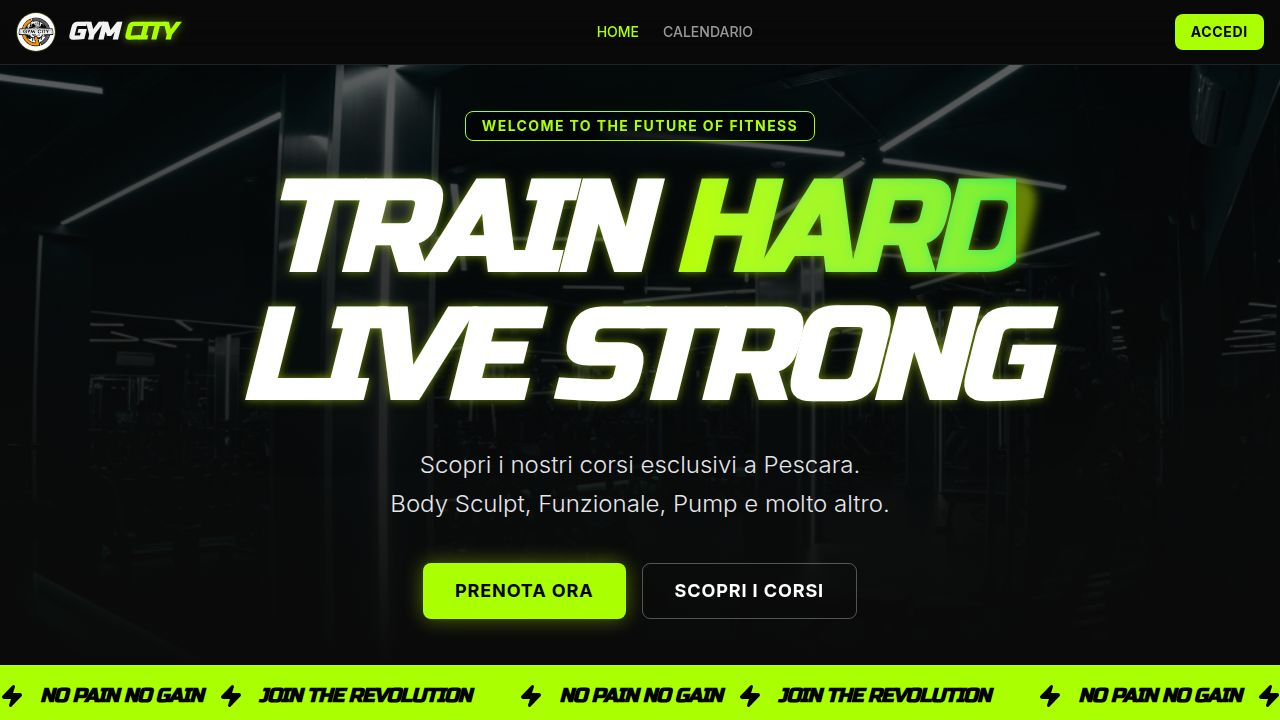
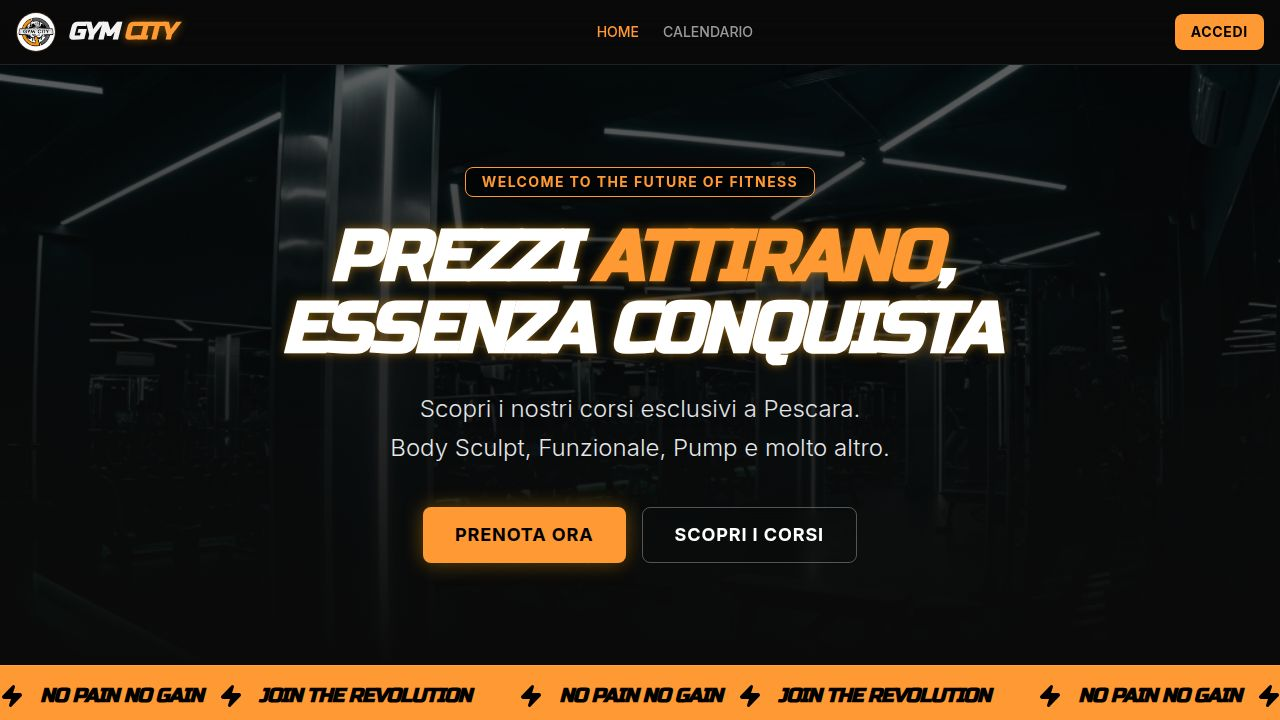
Add files via upload

diff --git a/client/src/pages/home.tsx b/client/src/pages/home.tsx
@@ -7,6 +7,8 @@ import heroImage from '@assets/generated_images/modern_dark_gym_interior_with_ne
 import patternImage from '@assets/generated_images/sporty_abstract_geometric_pattern_dark_neon_green.png';
 import { useApp } from "@/lib/store";
 
+import realGymBg from '@assets/1168-gym-city-pescara-a-s-d-img-Jspho_1770023684389.jpeg';
+
 export default function Home() {
   const { courses } = useApp();
 
@@ -19,12 +21,12 @@ export default function Home() {
         {/* Background Image with Overlay */}
         <div className="absolute inset-0 z-0">
           <img 
-            src={heroImage} 
+            src={realGymBg} 
             alt="Gym Hero" 
-            className="w-full h-full object-cover opacity-60"
+            className="w-full h-full object-cover opacity-50"
           />
-          <div className="absolute inset-0 bg-gradient-to-t from-background via-background/60 to-transparent"></div>
-          <div className="absolute inset-0 bg-black/40"></div>
+          <div className="absolute inset-0 bg-gradient-to-t from-background via-background/40 to-transparent"></div>
+          <div className="absolute inset-0 bg-black/50"></div>
         </div>
 
         {/* Content */}
@@ -32,9 +34,9 @@ export default function Home() {
           <Badge variant="outline" className="mb-6 border-primary text-primary px-4 py-1 text-sm font-bold tracking-widest uppercase bg-black/50 backdrop-blur">
             Welcome to the future of fitness
           </Badge>
-          <h1 className="text-5xl md:text-7xl lg:text-9xl font-display font-black text-white uppercase italic tracking-tighter mb-6 neon-text drop-shadow-2xl">
-            Train <span className="text-transparent bg-clip-text bg-gradient-to-r from-primary to-green-400">Hard</span><br />
-            Live <span className="text-white">Strong</span>
+          <h1 className="text-3xl md:text-5xl lg:text-6xl font-display font-black text-white uppercase italic tracking-tighter mb-6 neon-text drop-shadow-2xl leading-none px-2">
+            I NOSTRI PREZZI <span className="text-primary">ATTIRANO</span>,<br />
+            MA È LA NOSTRA ESSENZA A <span className="text-white">CONQUISTARE</span>
           </h1>
           <p className="text-lg md:text-2xl text-gray-200 max-w-2xl mx-auto mb-10 font-light leading-relaxed">
             Scopri i nostri corsi esclusivi a Pescara. <br/>
@@ -42,7 +44,7 @@ export default function Home() {
           </p>
           <div className="flex flex-col sm:flex-row gap-4 justify-center">
             <Link href="/calendar">
-              <Button size="lg" className="h-14 px-8 text-lg font-bold uppercase tracking-wider bg-primary hover:bg-primary/90 text-black border-none hover:scale-105 transition-transform shadow-[0_0_20px_rgba(204,255,0,0.4)]">
+              <Button size="lg" className="h-14 px-8 text-lg font-bold uppercase tracking-wider bg-primary hover:bg-primary/90 text-black border-none hover:scale-105 transition-transform shadow-[0_0_20px_rgba(255,165,0,0.4)]">
                 Prenota Ora
               </Button>
             </Link>

diff --git a/client/src/pages/login.tsx b/client/src/pages/login.tsx
@@ -10,6 +10,8 @@ import { Input } from "@/components/ui/input";
 import { Label } from "@/components/ui/label";
 import { useState } from "react";
 
+import realGymBg from '@assets/1168-gym-city-pescara-a-s-d-img-Jspho_1770023684389.jpeg';
+
 export default function LoginPage() {
   const { login } = useApp();
   const [, setLocation] = useLocation();
@@ -32,19 +34,19 @@ export default function LoginPage() {
 
   return (
     <div className="min-h-screen flex items-center justify-center relative overflow-hidden bg-background">
-       <div className="absolute inset-0 z-0">
+      <div className="absolute inset-0 z-0">
           <img 
-            src={heroImage} 
+            src={realGymBg} 
             alt="Background" 
-            className="w-full h-full object-cover opacity-20 blur-sm"
+            className="w-full h-full object-cover opacity-30 blur-sm"
           />
-          <div className="absolute inset-0 bg-black/60"></div>
+          <div className="absolute inset-0 bg-black/70"></div>
         </div>
 
       <Card className="w-[400px] border-white/10 bg-card/80 backdrop-blur-xl relative z-10 shadow-2xl">
         <CardHeader className="text-center pb-2">
           <div className="flex justify-center mb-4">
-            <div className="h-20 w-20 rounded-full overflow-hidden border-2 border-primary shadow-[0_0_20px_rgba(204,255,0,0.4)] bg-black">
+            <div className="h-20 w-20 rounded-full overflow-hidden border-2 border-primary shadow-[0_0_20px_rgba(255,165,0,0.4)] bg-black">
               <img src={logoImg} alt="Gym City Logo" className="h-full w-full object-cover" />
             </div>
           </div>

diff --git a/client/src/index.css b/client/src/index.css
@@ -16,8 +16,8 @@
   --color-popover: hsl(0 0% 10%);
   --color-popover-foreground: hsl(0 0% 95%);
 
-  /* Neon Volt Green */
-  --color-primary: hsl(80 100% 50%);
+  /* Light Orange */
+  --color-primary: hsl(30 100% 60%);
   --color-primary-foreground: hsl(0 0% 10%);
 
   --color-secondary: hsl(0 0% 20%);
@@ -34,7 +34,7 @@
 
   --color-border: hsl(0 0% 20%);
   --color-input: hsl(0 0% 20%);
-  --color-ring: hsl(80 100% 50%);
+  --color-ring: hsl(30 100% 60%);
 
   --radius-sm: 0.25rem;
   --radius-md: 0.5rem;
@@ -58,9 +58,9 @@
 }
 
 .neon-text {
-  text-shadow: 0 0 10px rgba(204, 255, 0, 0.5);
+  text-shadow: 0 0 10px rgba(255, 165, 0, 0.5);
 }
 
 .neon-border {
-  box-shadow: 0 0 10px rgba(204, 255, 0, 0.2);
+  box-shadow: 0 0 10px rgba(255, 165, 0, 0.2);
 }
